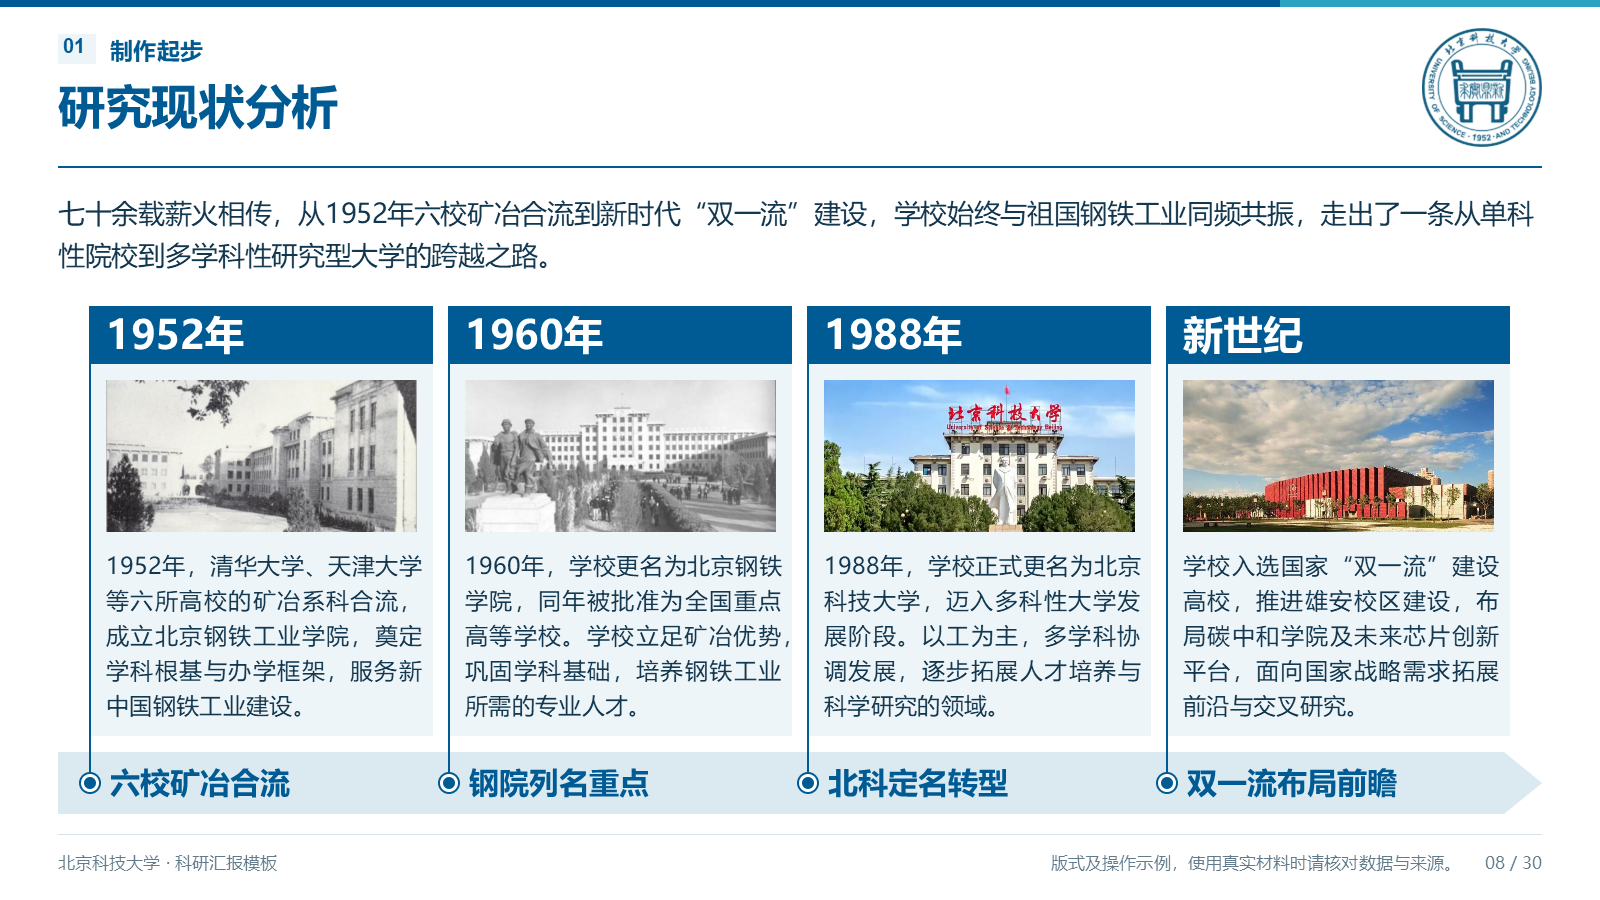
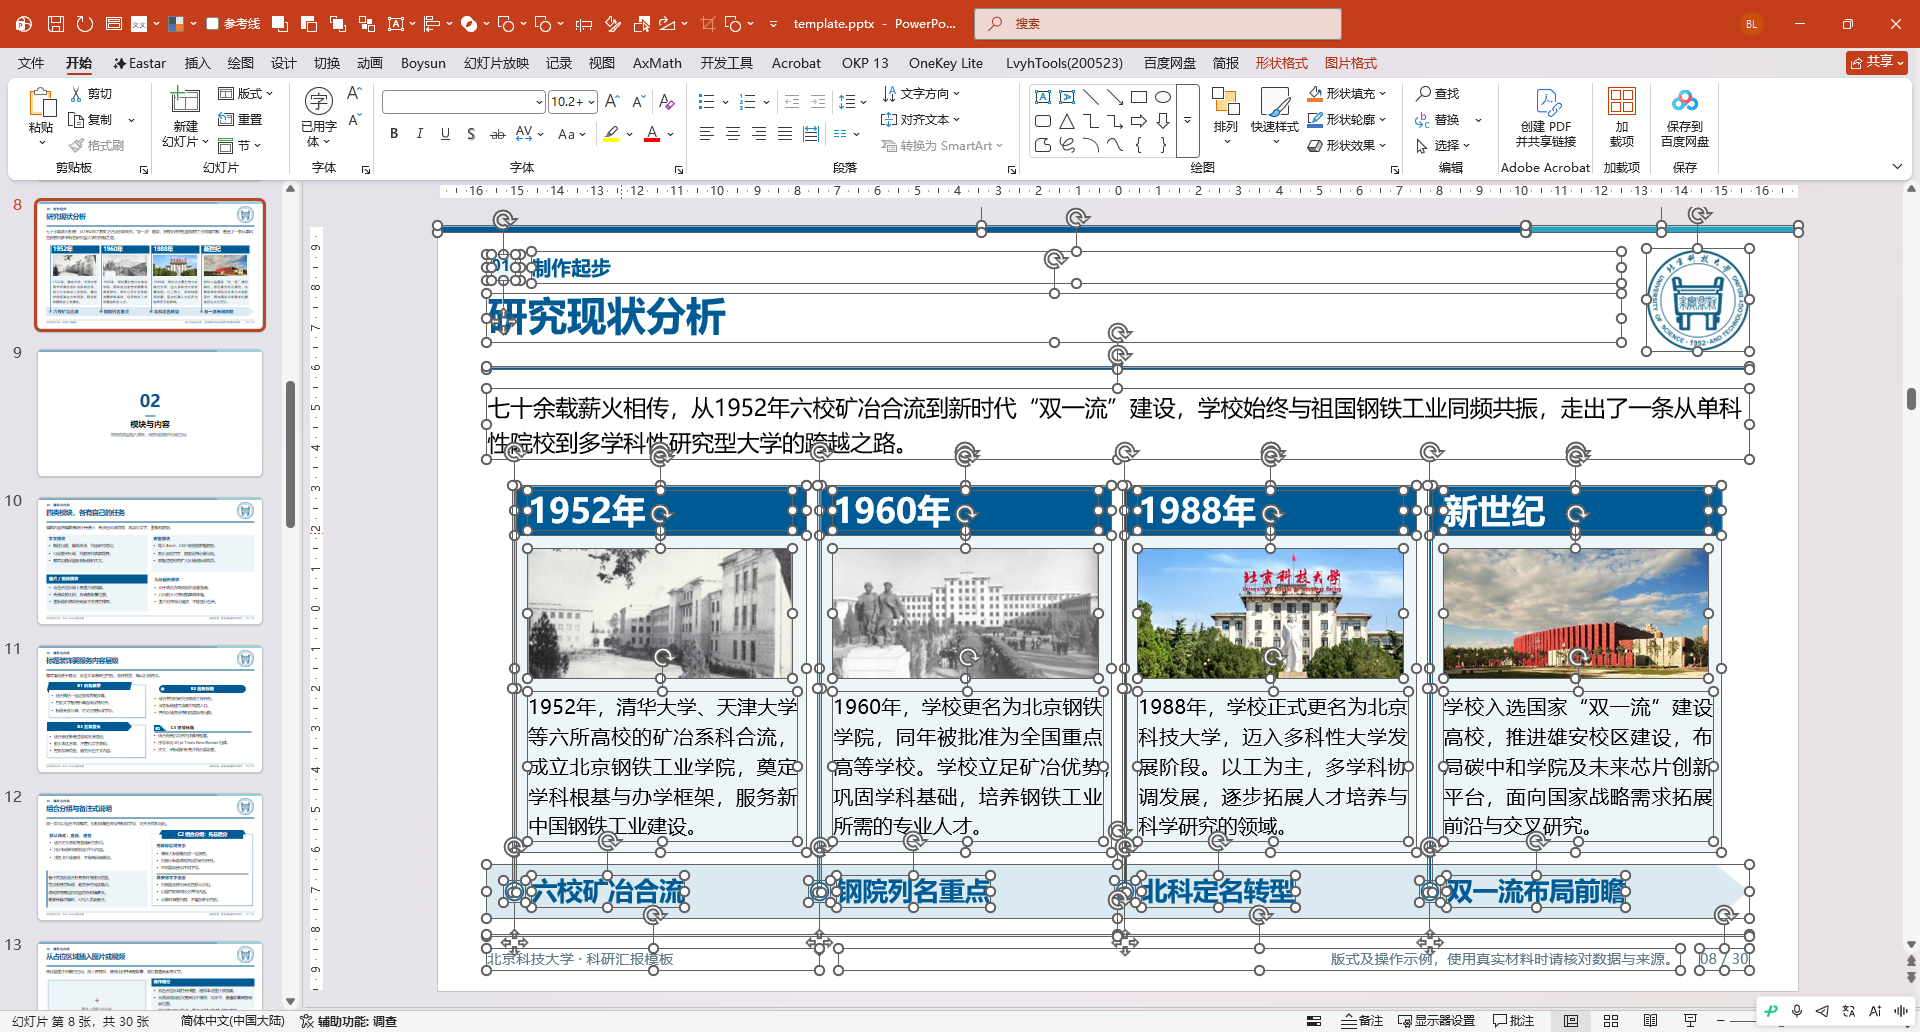
Use PowerPoint selection screenshot for timeline proof

diff --git a/html2ppt-web-slide-docs/docs/导出与排障.md b/html2ppt-web-slide-docs/docs/导出与排障.md
@@ -21,9 +21,9 @@
 
 ## PPTX 可编辑性示例
 
-导出的页面由可选择的文字框、形状、图片和表格对象组成，不是整页截图。第一张 PowerPoint 实际截图显示公式页中的大量独立对象已被同时选中；第二张展示复杂时间轴页面导出后的完整效果，年份、图片、说明和阶段标题仍按页面结构分别生成。
+导出的页面由可选择的文字框、形状、图片和表格对象组成，不是整页截图。下面两张 PowerPoint 实际操作截图分别展示公式页和时间轴页的大量对象处于选中状态；文字、图片、形状、公式和表格仍可继续移动、修改或替换。
 
 ![公式页中的文字、公式、表格和图片对象可以分别选择](../assets/pptx-editable-formula.png)
 
-![复杂时间轴页面导出后仍保持清晰的分区和对象结构](../assets/pptx-editable-timeline.png)
+![时间轴页中的年份、图片、说明文字和阶段标题均为可选择对象](../assets/pptx-editable-timeline.png)
 
